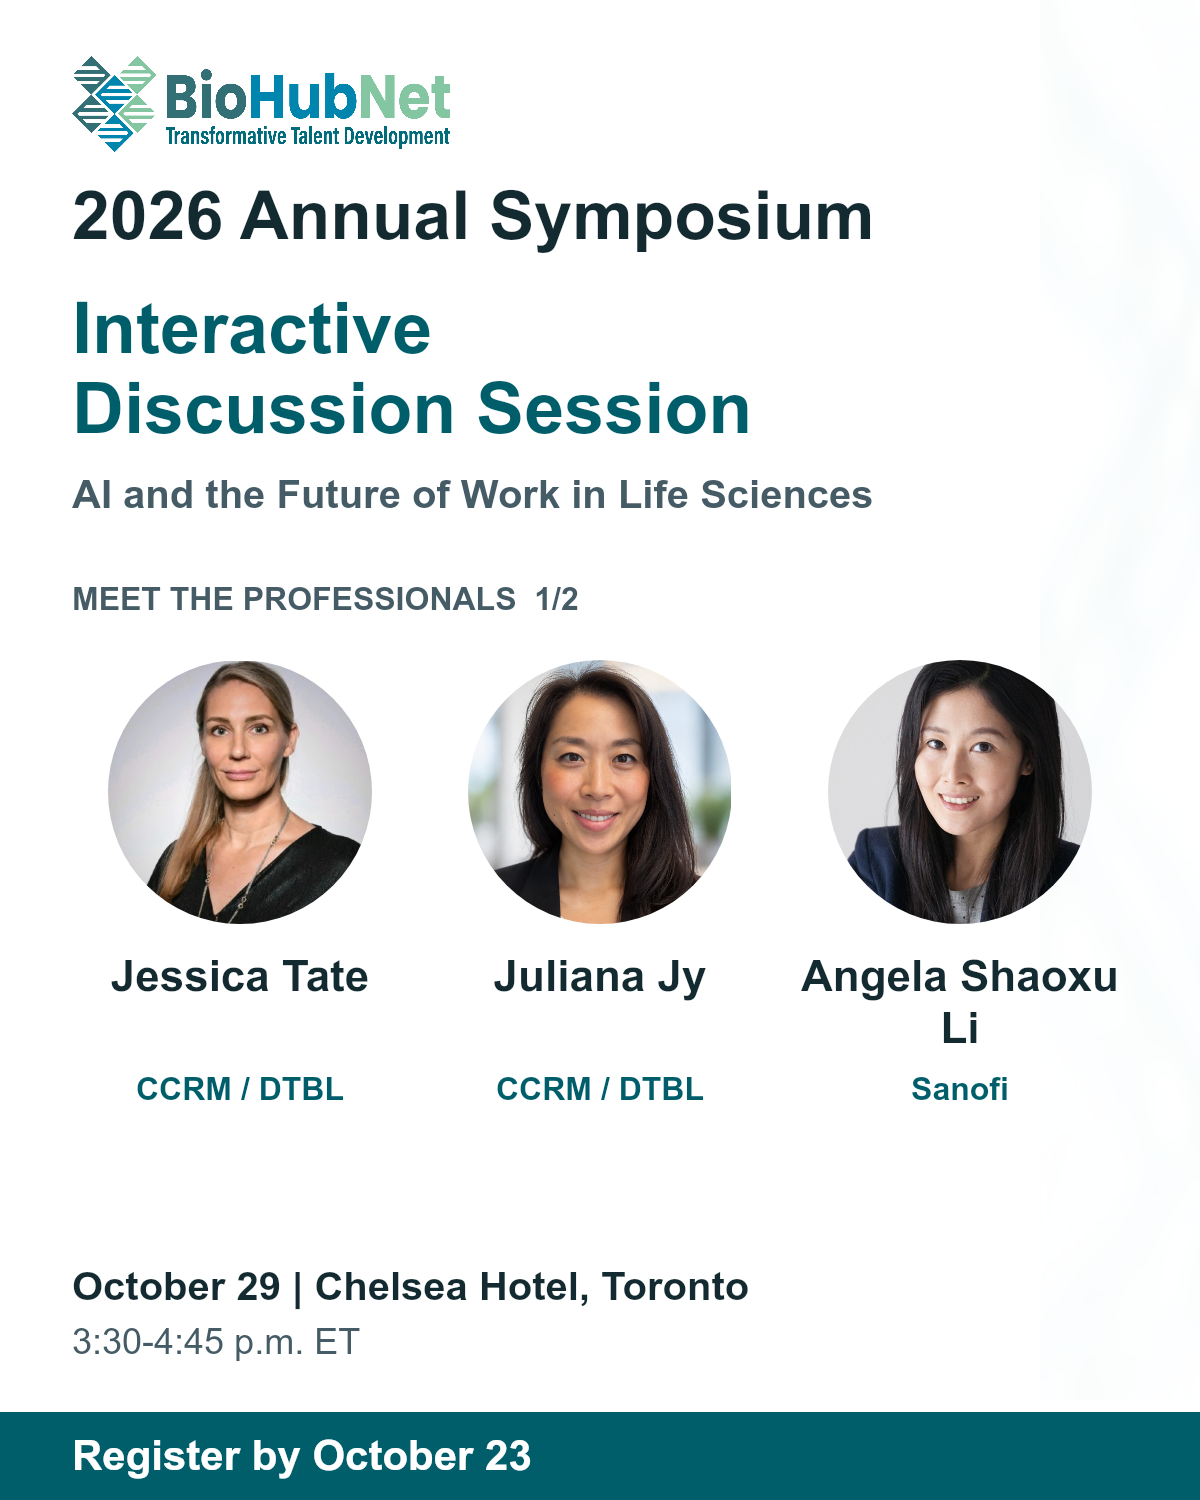
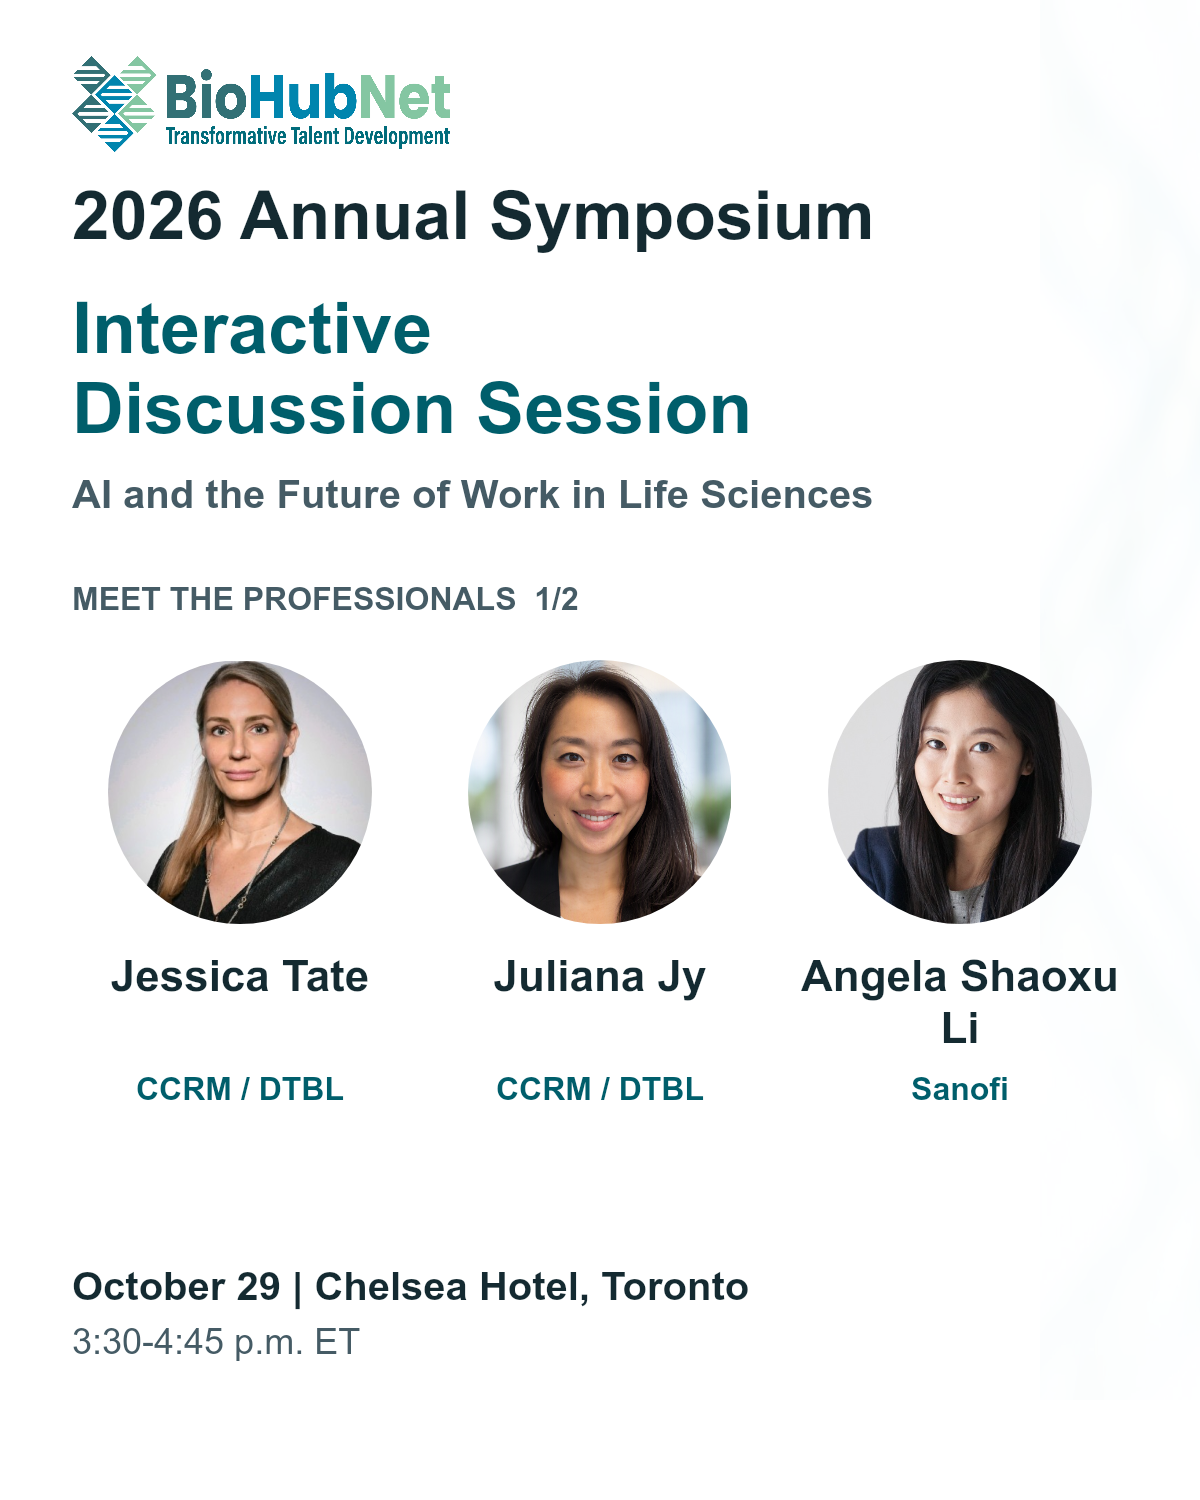
Remove closed-registration CTAs from remaining session highlights

Changed region(s): [[0.0, 0.92, 1.0, 1.0]]

diff --git a/src/lib/social/symposium-networking-posts.ts b/src/lib/social/symposium-networking-posts.ts
@@ -55,8 +55,8 @@ export const SYMPOSIUM_NETWORKING_POSTS = NETWORKING_GROUPS.map((group) => ({
   workshopSlug: null,
   suggestedDate: `2026-10-${19 + group.number}T13:00:00Z`,
   sourceUrl: "https://biohubnet.ca/2026-annual-symposium/",
-  assetUrl: `https://bhn-training-platform.vercel.app/social/symposium-2026/networking-${group.number}.png?v=${group.number === 4 ? "20261022-remaining" : group.number === 3 ? "20261021-roster15" : "20261020-roster14"}`,
-  graphicBrief: `BioHubNet logo, 2026 Annual Symposium, full Structured Networking with Industry Professionals heading. Original circular headshots with no retouching or color changes: ${group.people.map((p) => p.name).join(", ")}. Names and organizations only on the graphic; professional titles in the caption. Spacious layout, subtle glass edge, October 29 | Toronto | Register now. Recheck the current networking lineup before approving.`,
+  assetUrl: `https://bhn-training-platform.vercel.app/social/symposium-2026/networking-${group.number}.png?v=${group.number === 4 ? "20261022-no-registration-cta" : group.number === 3 ? "20261021-roster15" : "20261020-roster14"}`,
+  graphicBrief: `BioHubNet logo, 2026 Annual Symposium, full Structured Networking with Industry Professionals heading. Original circular headshots with no retouching or color changes: ${group.people.map((p) => p.name).join(", ")}. Names and organizations only on the graphic; professional titles in the caption. Spacious layout, subtle glass edge, October 29 | Toronto${group.number === 4 ? ". Registration is closed; no registration CTA." : " | Register now."} Recheck the current networking lineup before approving.`,
   body: `${group.hook}
 
 ${group.invitation}
@@ -68,9 +68,8 @@ ${group.closing}
 
 October 29, 2026 | Chelsea Hotel, Toronto
 Structured networking: 3:30-4:45 p.m. ET
-Registration closes October 23.
-
-Explore the program and register:
+${group.number === 4 ? "" : "Registration closes October 23.\n"}
+${group.number === 4 ? "Symposium program:" : "Explore the program and register:"}
 https://biohubnet.ca/2026-annual-symposium/
 
 #BioHubNet #LifeSciences #CareerDevelopment #Networking`,

diff --git a/src/lib/social/symposium-discussion-posts.ts b/src/lib/social/symposium-discussion-posts.ts
@@ -29,8 +29,8 @@ export const SYMPOSIUM_DISCUSSION_POSTS = DISCUSSION_GROUPS.map((group) => ({
   workshopSlug: null,
   suggestedDate: "2026-10-23T13:00:00Z",
   sourceUrl: "https://biohubnet.ca/2026-annual-symposium/",
-  assetUrl: `https://bhn-training-platform.vercel.app/social/symposium-2026/discussion-${group.number}.png?v=20261022`,
-  graphicBrief: `BioHubNet logo, large 2026 Annual Symposium and Interactive Discussion Session headings. Unretouched original rounded headshots: ${group.people.map((p) => p.name).join(", ")}. Names and organizations only; titles stay in the caption. Spacious white layout with a restrained glass edge. October 29 | Toronto | Register by October 23. ${group.theme ? `Approved topic: ${group.theme}.` : "Do not invent a table topic."} People already featured in published posts are excluded.`,
+  assetUrl: `https://bhn-training-platform.vercel.app/social/symposium-2026/discussion-${group.number}.png?v=20261022-no-registration-cta`,
+  graphicBrief: `BioHubNet logo, large 2026 Annual Symposium and Interactive Discussion Session headings. Unretouched original rounded headshots: ${group.people.map((p) => p.name).join(", ")}. Names and organizations only; titles stay in the caption. Spacious white layout with a restrained glass edge. October 29 | Toronto. Registration is closed; no registration CTA. ${group.theme ? `Approved topic: ${group.theme}.` : "Do not invent a table topic."} People already featured in published posts are excluded.`,
   body: `${group.hook}
 
 Join the Interactive Discussion Session at BioHubNet's 2026 Annual Symposium.
@@ -43,9 +43,8 @@ ${group.closing}
 October 29, 2026 | Chelsea Hotel, Toronto
 Interactive discussion: 3:30-4:45 p.m. ET
 This session runs concurrently with Structured Networking with Industry Professionals; plan to attend one, not both.
-Registration closes October 23.
 
-Explore the program and register:
+Symposium program:
 https://biohubnet.ca/2026-annual-symposium/
 
 #BioHubNet #LifeSciences #Biomanufacturing #Networking`,

diff --git a/tests/unit/symposium-networking-posts.test.ts b/tests/unit/symposium-networking-posts.test.ts
@@ -19,7 +19,11 @@ test("networking series retains published groups and features remaining people w
     assert.ok(body.length < 2000);
     assert.match(body, /Structured Networking with Industry Professionals/);
     assert.match(body, /3:30-4:45 p\.m\. ET/);
-    assert.match(body, /Registration closes October 23/);
+    if (post.slug.endsWith("-4")) {
+      assert.doesNotMatch(body, /register|registration closes/i);
+      assert.doesNotMatch(post.graphicBrief, /Register now|Register by/);
+      assert.match(body, /Symposium program:/);
+    } else assert.match(body, /Registration closes October 23/);
     assert.match(body, /@BioHubNet/);
     assert.doesNotMatch(body, /luma\.com|guaranteed|full biography/i);
     assert.ok(existsSync(`public/social/symposium-2026/networking-${NETWORKING_GROUPS[SYMPOSIUM_NETWORKING_POSTS.indexOf(post)].number}.png`));

diff --git a/tests/unit/symposium-discussion-posts.test.ts b/tests/unit/symposium-discussion-posts.test.ts
@@ -17,7 +17,9 @@ test("remaining session drafts cover nine people once and exclude people already
     assert.ok(text.length < 2500);
     assert.match(text, /Interactive Discussion Session/);
     assert.match(text, /concurrently/);
-    assert.match(text, /Registration closes October 23/);
+    assert.doesNotMatch(text, /register|registration closes/i);
+    assert.doesNotMatch(post.graphicBrief, /Register now|Register by/);
+    assert.match(text, /Symposium program:/);
     assert.match(text, /@BioHubNet/);
     assert.doesNotMatch(text, /luma\.com|guaranteed|full biography/i);
   }
